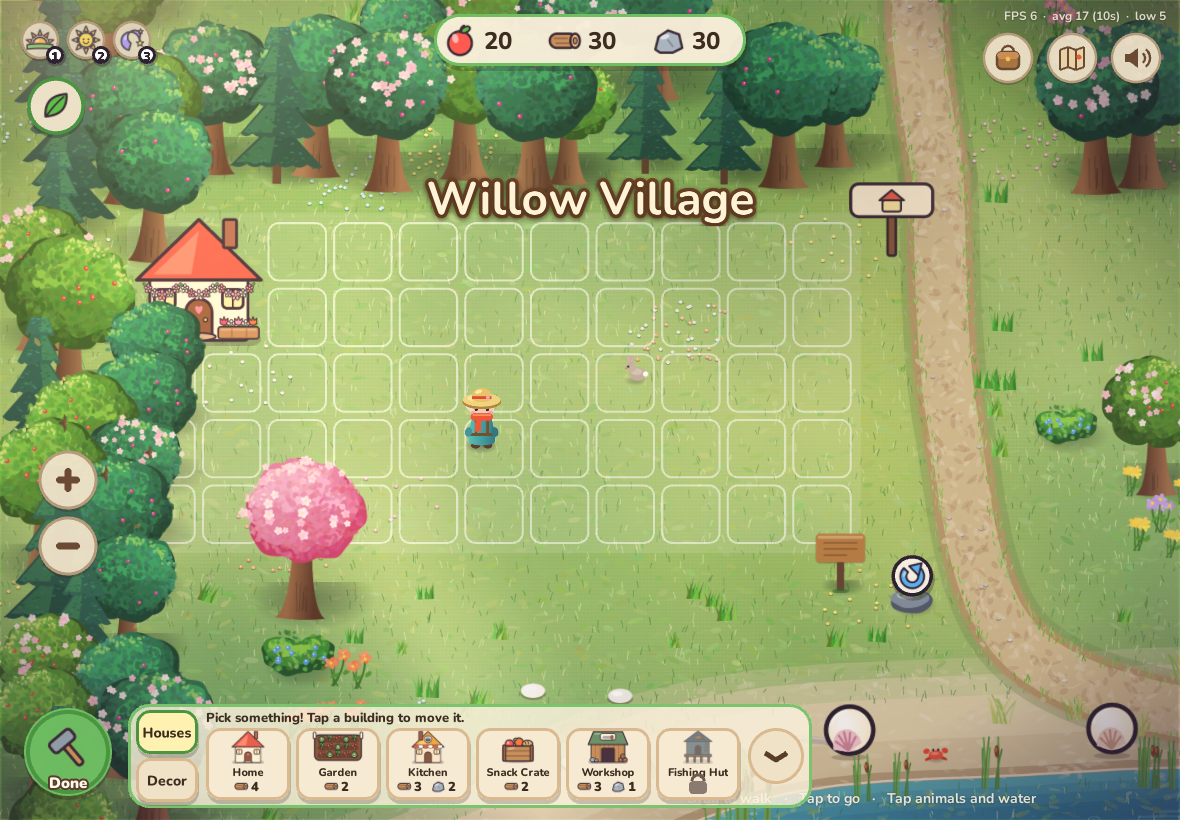
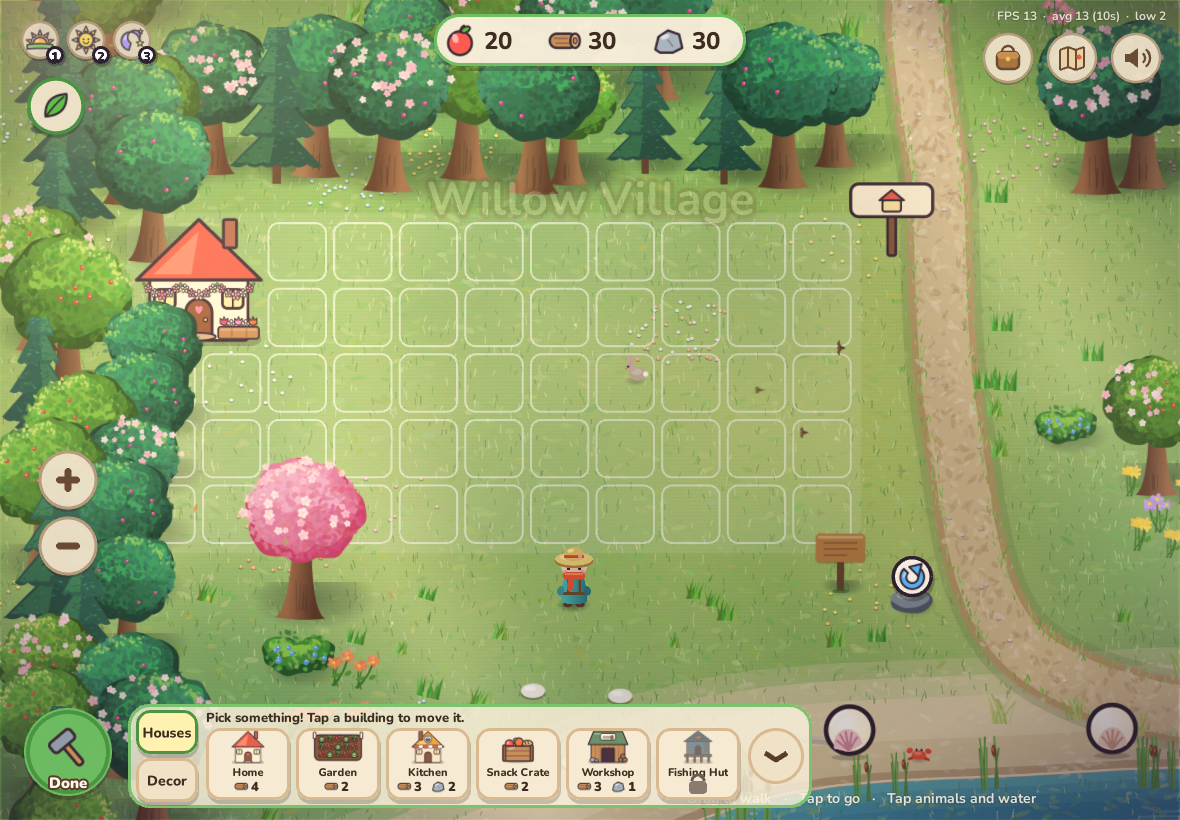
12.7 WIP: bigger ghost buttons when zoomed out, spec moves hero off the cells

diff --git a/src/village/village.ts b/src/village/village.ts
@@ -1,3 +1,4 @@
+import { DPR } from '../dpr';
 // Willow Village: friendly villagers, snap-grid building, simple jobs and gentle events.
 // Rules for a young audience: no fail states, few numbers, big obvious feedback.
 import Phaser from 'phaser';
@@ -469,6 +470,8 @@ export class Village {
     this.ghost = { img, gx: spot[0], gy: spot[1], ok: true, check, cross };
     this.moveGhost(spot[0], spot[1]);
   }
+  /** 12.7: build mode is zoomed out, so the check / cross buttons grow to stay easy to tap. */
+  btnK() { return Math.max(1, 1.2 / (this.w.buildViewTarget().z / DPR)); }
   moveGhost(gx: number, gy: number) {
     const g = this.ghost; if (!g || !this.selected) return;
     const t = this.selected, d = BUILD[t];
@@ -478,8 +481,9 @@ export class Village {
     const fw = this.w.textures.getFrame(atlasOf(d.frame), d.frame).width;
     g.img.setPosition(f.cx, f.by).setScale((f.w * (d.w === 1 ? 1.1 : 1.08)) / fw).setTint(g.ok ? 0xffffff : 0xff9a9a);
     const top = f.by - g.img.displayHeight;
-    g.check.setPosition(f.cx + 30, top - 24).setVisible(g.ok);
-    g.cross.setPosition(f.cx - 30, top - 24);
+    const k = this.btnK();
+    g.check.setScale((1.15 / 2.5) * k).setPosition(f.cx + 30 * k, top - 24 * k).setVisible(g.ok);
+    g.cross.setScale((0.95 / 2.5) * k).setPosition(f.cx - 30 * k, top - 24 * k);
     this.drawGrid();
     this.grid.fillStyle(g.ok ? 0x7cc463 : 0xf08a7a, 0.35); this.grid.fillRoundedRect(f.x + 3, f.y + 3, f.w - 6, f.h - 6, 12);
   }
@@ -496,8 +500,8 @@ export class Village {
     // Order 19: nothing picked yet, so a tap on a building picks it up to move it.
     if (!g) { const b = this.buildingAt(wx, wy); if (b) this.startMove(b); return; }
     if (g) {
-      if (g.check.visible && Math.hypot(wx - g.check.x, wy - g.check.y) < 34) { this.confirm(); return; }
-      if (Math.hypot(wx - g.cross.x, wy - g.cross.y) < 30) { this.select(null); sfx.blip(); this.drawGrid(); return; }
+      if (g.check.visible && Math.hypot(wx - g.check.x, wy - g.check.y) < 34 * this.btnK()) { this.confirm(); return; }
+      if (Math.hypot(wx - g.cross.x, wy - g.cross.y) < 30 * this.btnK()) { this.select(null); sfx.blip(); this.drawGrid(); return; }
       const d = BUILD[this.selected!];
       const gx = Math.floor((wx - VILLAGE.x) / VILLAGE.cell - (d.w - 1) / 2), gy = Math.floor((wy - VILLAGE.y) / VILLAGE.cell - (d.h - 1) / 2);
       if (wx > VILLAGE.x - 40 && wx < VILLAGE.x + VILLAGE.cols * VILLAGE.cell + 40 && wy > VILLAGE.y - 60 && wy < VILLAGE.y + VILLAGE.rows * VILLAGE.cell + 40) { this.moveGhost(gx, gy); sfx.tock(); }

diff --git a/tests/build-tray.spec.ts b/tests/build-tray.spec.ts
@@ -36,8 +36,10 @@ test('build mode: zoomed out, thin tray, place / move / remove, restores the vie
   await page.waitForFunction(() => (window as any).__cozy?.ready, null, { timeout: 180_000 });
   await page.evaluate(() => (window as any).__cozy.teleport(470, 1820));
   await page.waitForTimeout(3000);
+  
+  await page.evaluate(() => (window as any).__cozy.teleport(560, 1975)); // out of the village cells
+  await page.waitForTimeout(2500);
   const z0 = await zoom(page);
-
   await tapId(page, 'build');
   await expect.poll(async () => (await village(page)).building, { timeout: 30_000 }).toBe(true);
   await expect.poll(() => zoom(page), { timeout: 60_000, intervals: [500] }).toBeLessThan(z0 * 0.95);
@@ -67,6 +69,7 @@ test('build mode: zoomed out, thin tray, place / move / remove, restores the vie
   await page.waitForTimeout(800);
   const g1 = await village(page);
   expect(g1.buildings.length).toBe(1); expect(g1.ghost.gx).toBe(4);
+  console.log('ghost', JSON.stringify(g1.ghost), JSON.stringify(await page.evaluate(([x, y]) => (window as any).__cozy.worldToScreen(x, y), g1.ghost.check)));
   await tapWorld(page, g1.ghost.check[0], g1.ghost.check[1]);
   await expect.poll(async () => (await village(page)).buildings.length, { timeout: 30_000 }).toBe(2);
 
